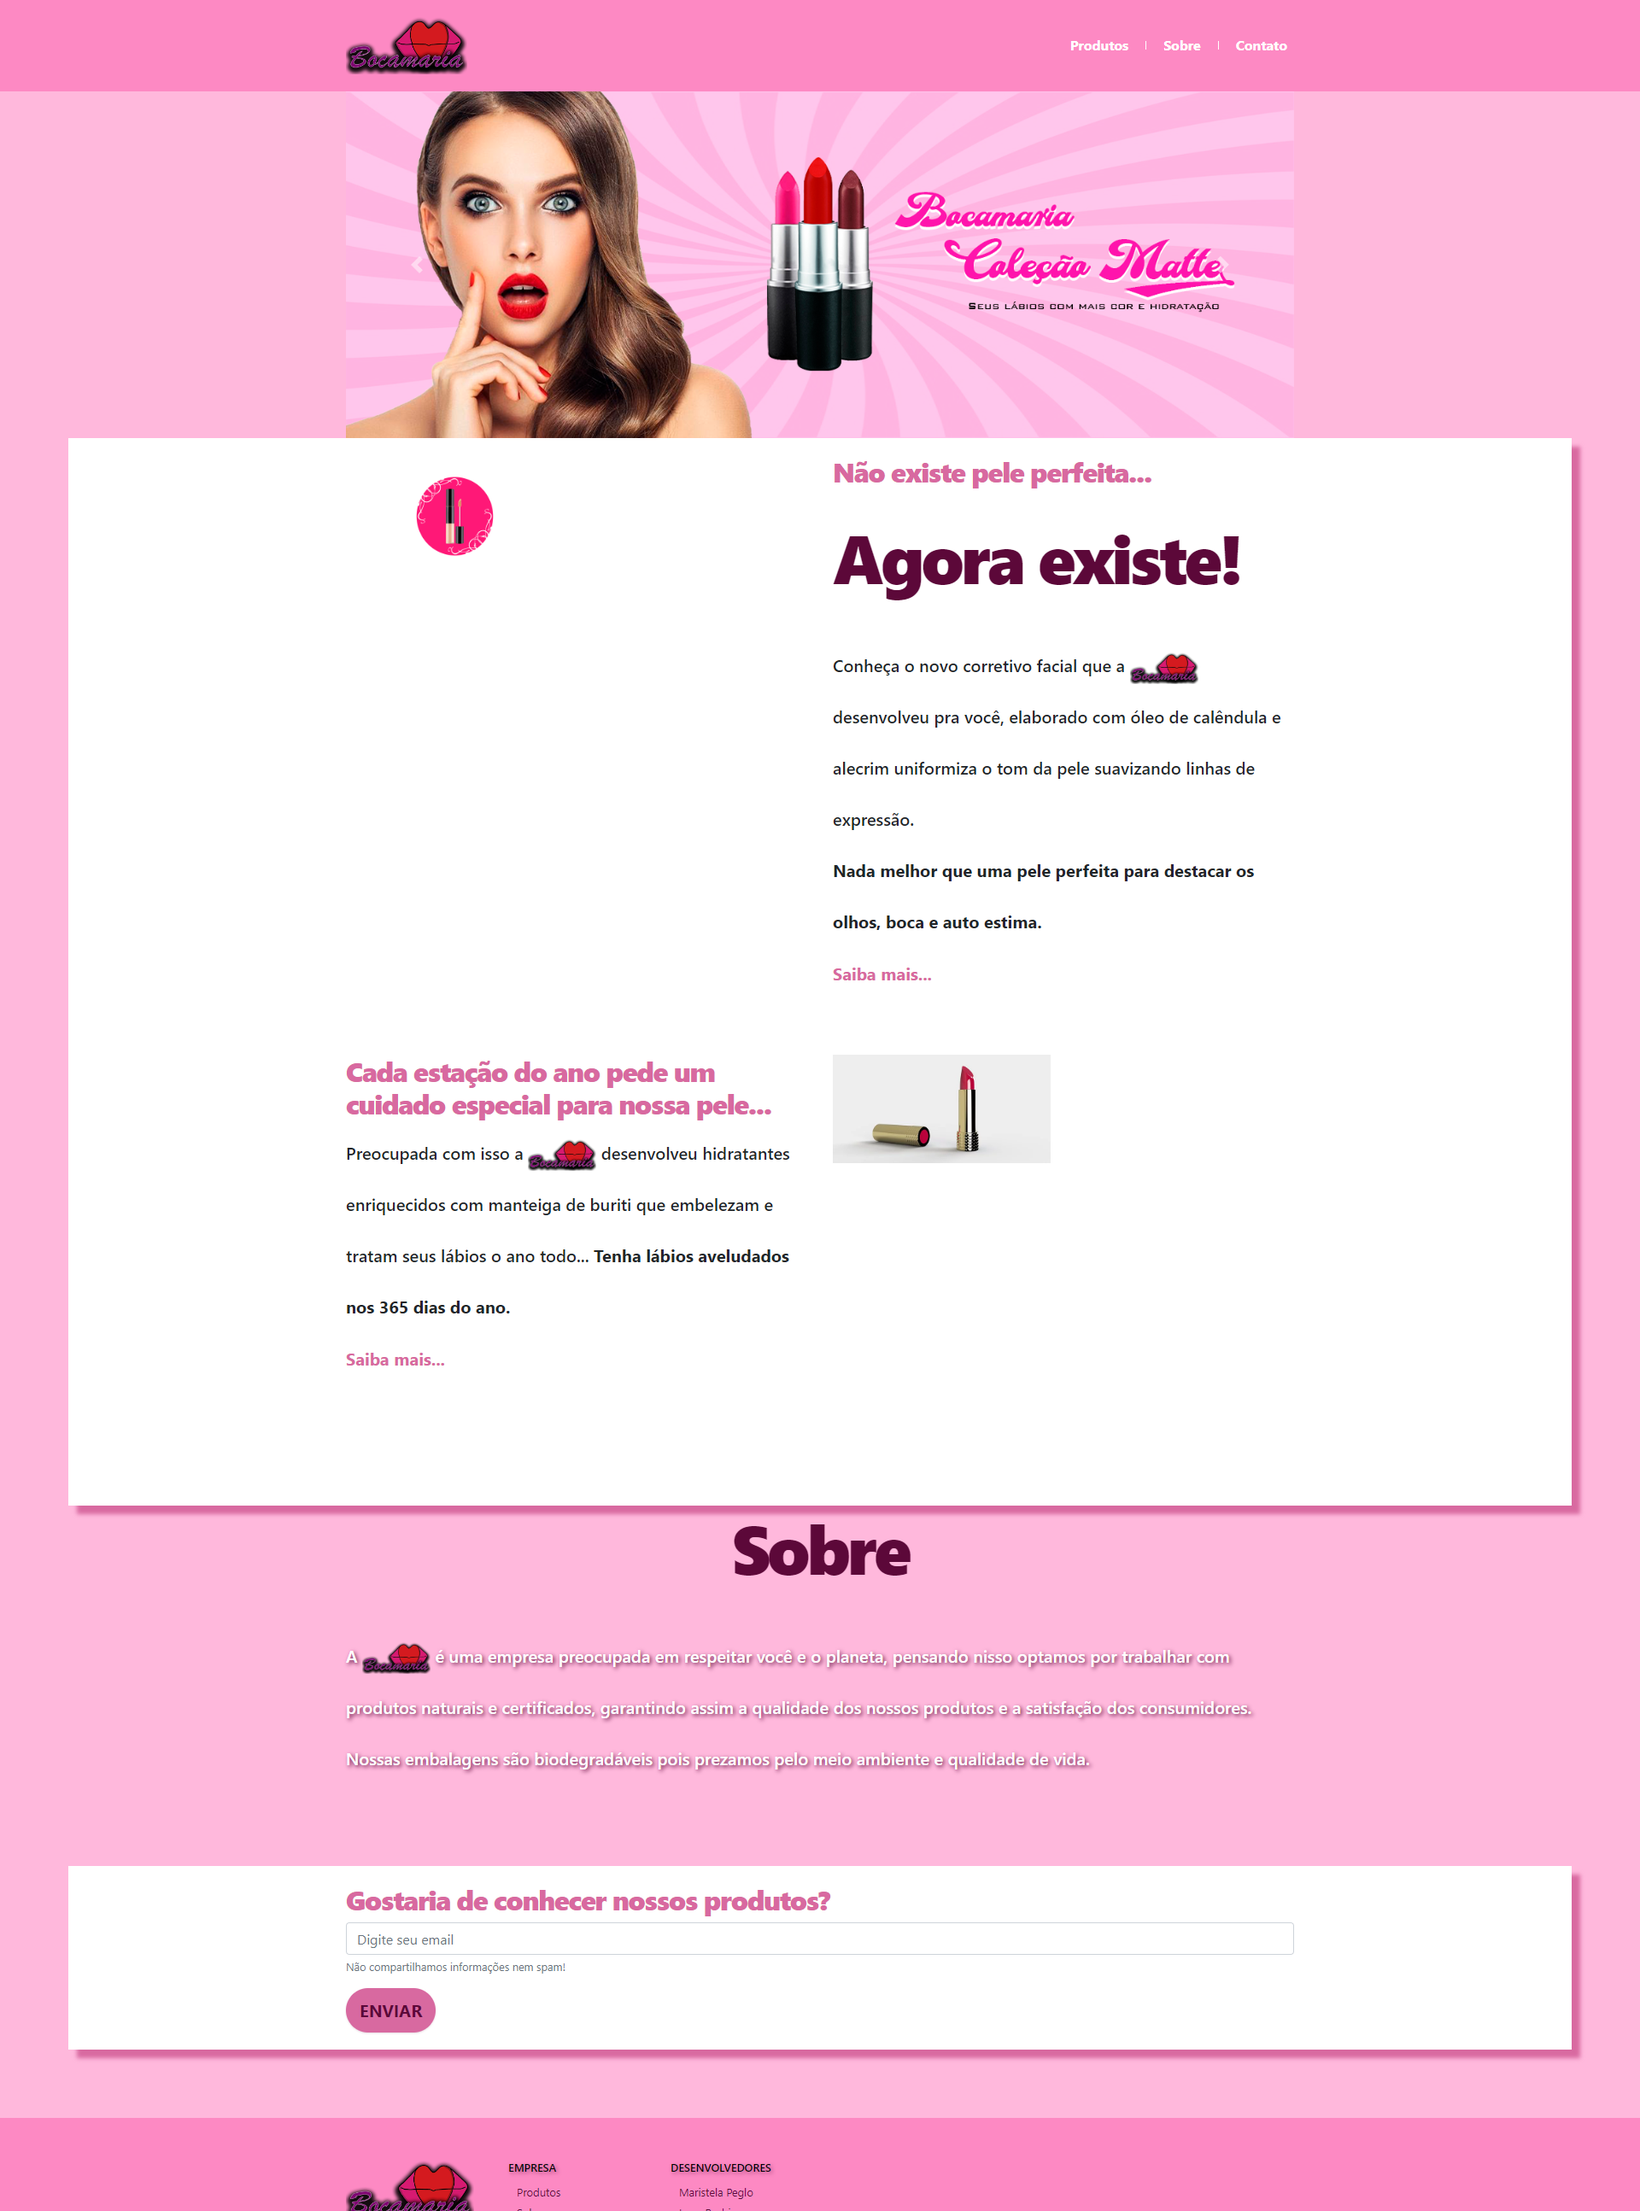
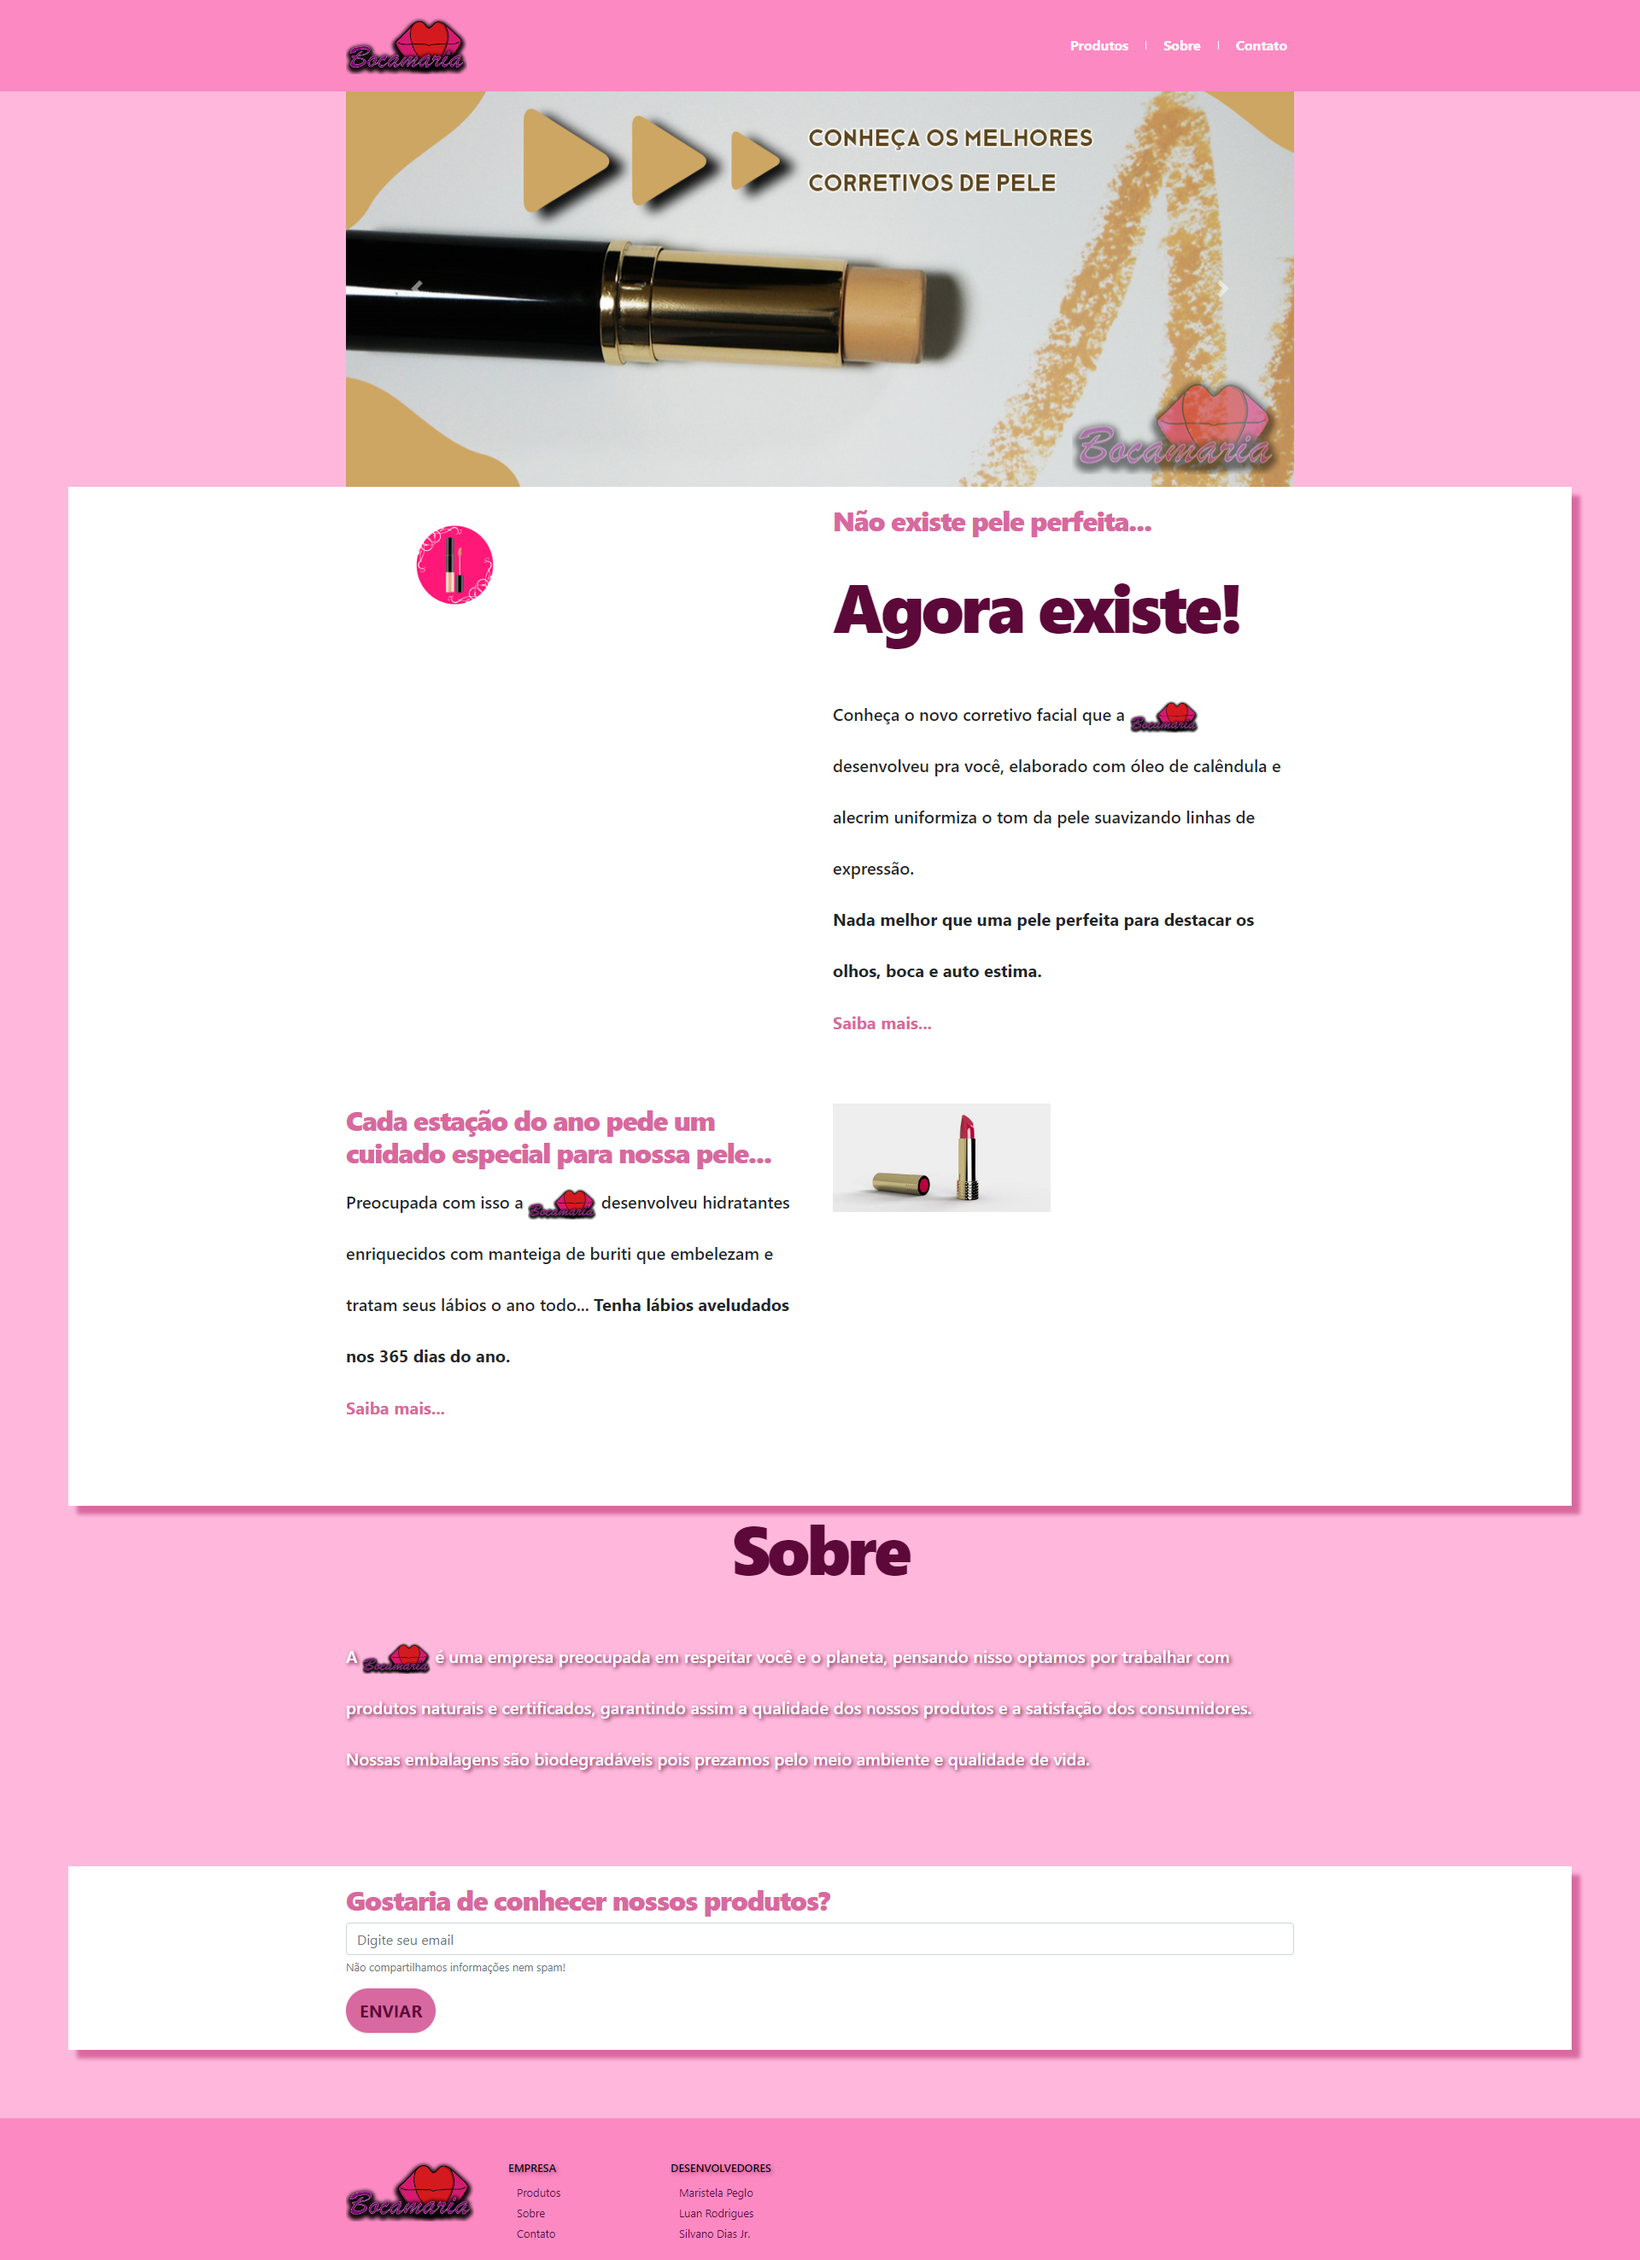
feat: Página de produtos, card com imagem, título, descrição, valor e botão de carrinho de compras.

Changed region(s): [[0.0, 0.4635, 1.0, 1.0], [0.0312, 0.0, 0.9688, 0.4635], [0.5, 0.4944, 0.5938, 0.5562]]

diff --git a/index.html b/index.html
@@ -73,25 +73,94 @@
               <img src="/src/assets/img/woman-home.png" alt="Foto de uma mulher, boina e labios vermelho, passando batom.">
             </figure>
           </div>
-          <div class="home-banner">
-            <div>
-              <i class="fa-solid fa-truck-fast"></i>
-              <p>Entrega em<br><span>todo brasil</span></p>
+        </div>
+        <div class="home-banner">
+          <div>
+            <i class="fa-solid fa-truck-fast"></i>
+            <p>Entrega em<br><span>todo brasil</span></p>
+          </div>
+          <div>
+            <i class="fa-solid fa-credit-card"></i>
+            <p>Parcelas em até 12x<br><span>sem juros no cartão</span></p>
+          </div>
+          <div>
+            <i class="fa-solid fa-heart-circle-check"></i>
+            <p>Satisfação<br><span>garantida</span></p>
+          </div>
+          <div>
+            <i class="fa-solid fa-lock"></i>
+            <p>Compra<br><span>100% segura</span></p>
+          </div>
+        </div>
+    </section>
+    <section id="product">
+      <div class="container">
+        <div class="product-title">
+          <h2>Lançamentos</h2>
+        </div>
+        <div class="card-container">
+          <div class="card">
+            <img class="card-img" src="/src/assets/img/lipstick-red.png" alt="">
+            <div class="card-body">
+              <h4>Batom Mate Vermelho</h4>
+              <p class="card-text">O Batom Mate vermelho possui cor inesquecível. Sua fórmula ultra pigmentada com cor intensa, alta cobertura e fixação com durabilidade de até 5 horas.</p>
+              <div class="card-button">
+                <button>
+                  <a href="/">
+                    <i class="fa-solid fa-cart-shopping"></i>
+                  </a>
+                </button>
+                <p class="card-price">R$150,00</p>
+              </div>
             </div>
-            <div>
-              <i class="fa-solid fa-credit-card"></i>
-              <p>Parcelas em até 12x<br><span>sem juros no cartão</span></p>
+          </div>
+          <div class="card">
+            <img class="card-img" src="/src/assets/img/lipstick-red.png" alt="">
+            <div class="card-body">
+              <h4>Batom Mate Vermelho</h4>
+              <p class="card-text">O Batom Mate vermelho possui cor inesquecível. Sua fórmula ultra pigmentada com cor intensa, alta cobertura e fixação com durabilidade de até 5 horas.</p>
+              <div class="card-button">
+                <button>
+                  <a href="/">
+                    <i class="fa-solid fa-cart-shopping"></i>
+                  </a>
+                </button>
+                <p class="card-price">R$150,00</p>
+              </div>
             </div>
-            <div>
-              <i class="fa-solid fa-heart-circle-check"></i>
-              <p>Satisfação<br><span>garantida</span></p>
+          </div>
+          <div class="card">
+            <img class="card-img" src="/src/assets/img/lipstick-red.png" alt="">
+            <div class="card-body">
+              <h4>Batom Mate Vermelho</h4>
+              <p class="card-text">O Batom Mate vermelho possui cor inesquecível. Sua fórmula ultra pigmentada com cor intensa, alta cobertura e fixação com durabilidade de até 5 horas.</p>
+              <div class="card-button">
+                <button>
+                  <a href="/">
+                    <i class="fa-solid fa-cart-shopping"></i>
+                  </a>
+                </button>
+                <p class="card-price">R$150,00</p>
+              </div>
             </div>
-            <div>
-              <i class="fa-solid fa-lock"></i>
-              <p>Compra<br><span>100% segura</span></p>
+          </div>
+          <div class="card">
+            <img class="card-img" src="/src/assets/img/lipstick-red.png" alt="">
+            <div class="card-body">
+              <h4>Batom Mate Vermelho</h4>
+              <p class="card-text">O Batom Mate vermelho possui cor inesquecível. Sua fórmula ultra pigmentada com cor intensa, alta cobertura e fixação com durabilidade de até 5 horas.</p>
+              <div class="card-button">
+                <button>
+                  <a href="/">
+                    <i class="fa-solid fa-cart-shopping"></i>
+                  </a>
+                </button>
+                <p class="card-price">R$150,00</p>
+              </div>
             </div>
           </div>
         </div>
+      </div>
     </section>
   </main>
 

diff --git a/src/css/style.css b/src/css/style.css
@@ -32,7 +32,12 @@ a {
   color: var(--text-color);
 }
 
-img {
+p {
+  margin: 0;
+}
+
+img,
+figure {
   width: 100%;
   height: auto;
 }
@@ -41,7 +46,7 @@ body {
   font-family: var(--ff-primary);
   font-weight: normal;
   font-size: 1.6rem;
-  background: var(--bg-primary);
+  background: var(--bg-secondary);
 }
 
 header {
@@ -73,10 +78,10 @@ header {
   filter: brightness(0.9);
 }
 
-#home {
+/* #home {
   height: calc(100vh - 8.2rem);
   background: var(--bg-secondary);
-}
+} */
 
 .home-content {
   display: flex;
@@ -120,7 +125,7 @@ header {
   font-size: 1.8rem;
   font-weight: 700;
   color: var(--bg-primary);
-  padding: 1.5rem 4rem;
+  padding: 1.5rem 3.2rem;
   text-transform: uppercase;
   text-decoration: none;
 }
@@ -172,6 +177,98 @@ header {
 .home-banner span {
   font-weight: 500;
   text-transform: uppercase;
+}
+
+#product {
+  margin: 30rem 0;
+}
+
+.product-title h2 {
+  font-size: 3rem;
+  font-weight: 700;
+  color: var(--title-color);
+  text-align: left;
+}
+
+.card-container {
+  display: flex;
+  flex-wrap: wrap;
+  justify-content: space-between;
+  align-items: center;
+  gap: 1rem;
+}
+
+.card {
+  max-width: 27rem;
+  height: auto;
+  text-align: center;
+  background: var(--bg-third);
+  border: 0.2rem solid var(--bg-third);
+  border-radius: 0.7rem;
+  margin-top: 3rem;
+}
+
+.card-img {
+  width: 100%;
+  height: 30rem;
+  background: var(--bg-primary);
+  border-radius: 0.7rem;
+  margin: 0 auto;
+}
+
+.card-body {
+  display: flex;
+  flex-direction: column;
+  justify-content: center;
+  align-items: center;
+  gap: 2rem;
+}
+
+.card-body h4 {
+  color: var(--title-color);
+}
+
+.card-text {
+  font-size: 1.4rem;
+  font-weight: 400;
+  line-height: 2rem;
+}
+
+.card-button {
+  display: flex;
+  align-content: center;
+  justify-content: center;
+  align-items: center;
+  gap: 2rem;
+}
+
+.card-button button {
+  height: 4rem;
+  background: var(--button-primary);
+  border: 0.1rem solid var(--button-primary);
+  border-radius: 0.7rem;
+}
+
+.card-button button:hover {
+  color: var(--button-primary);
+  background: var(--bg-third);
+}
+
+.card-button a {
+  font-size: 1.8rem;
+  font-weight: bold;
+  color: var(--bg-primary);
+  cursor: pointer;
+  padding: 1rem 2rem;
+}
+
+.card-button a:hover {
+  color: var(--button-primary);
+}
+
+.card-price {
+  font-size: 1.8rem;
+  font-weight: 700;
 }
 
 /* #products {
